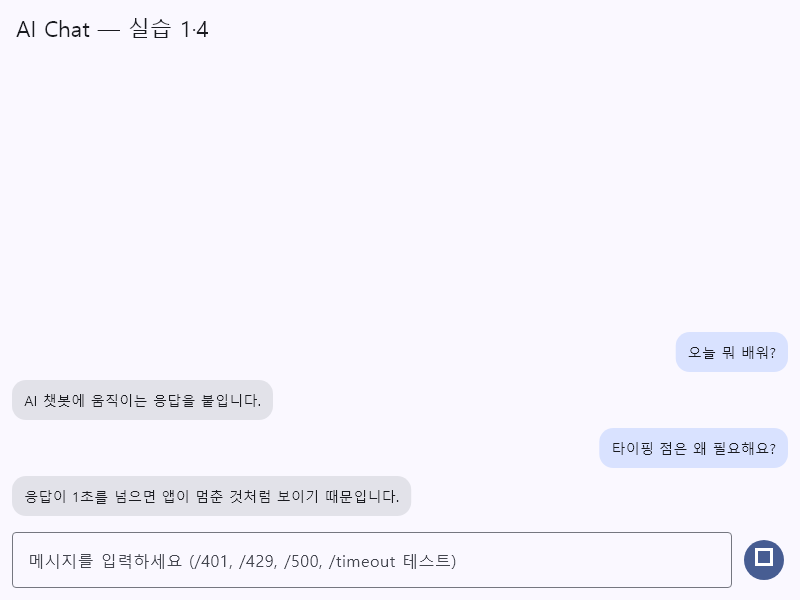
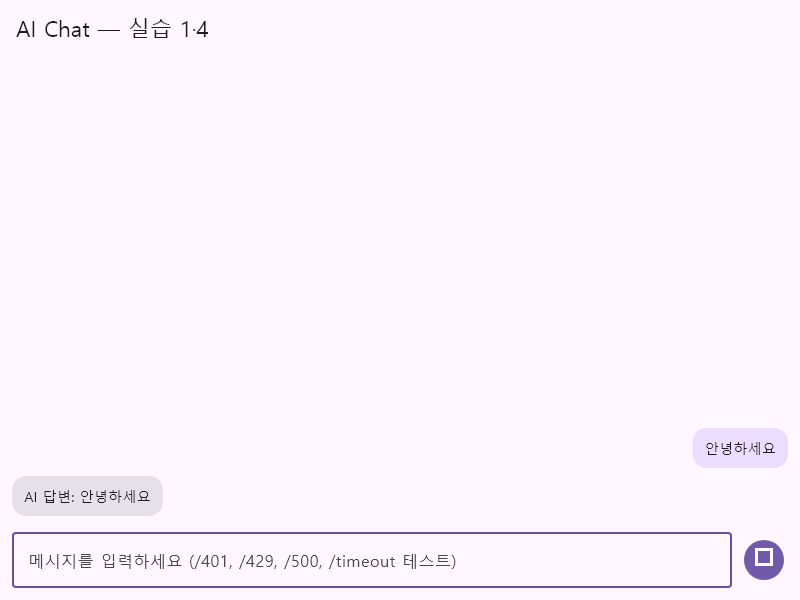
test: verify recovery timeout accessibility and update evidence

diff --git a/test/recovery_test.dart b/test/recovery_test.dart
@@ -1,0 +1,97 @@
+import 'dart:async';
+import 'package:flutter/material.dart';
+import 'package:flutter_test/flutter_test.dart';
+import 'package:http/http.dart' as http;
+import 'package:http/testing.dart';
+import 'package:lab1_chat_ui/main.dart';
+import 'package:lab1_chat_ui/proxy_client.dart';
+
+class RecoveringClient implements AiClient {
+  RecoveringClient(this.kind);
+  final ChatFailureKind kind;
+  final prompts = <String>[];
+  @override
+  Future<String> chat(String prompt) async {
+    prompts.add(prompt);
+    if (prompts.length == 1) throw ChatFailure(kind);
+    return '복구 성공';
+  }
+}
+
+void main() {
+  for (final kind in ChatFailureKind.values) {
+    testWidgets('$kind retry recovers without duplicating prompt', (
+      tester,
+    ) async {
+      final client = RecoveringClient(kind);
+      await tester.pumpWidget(MaterialApp(home: ChatPage(client: client)));
+      await tester.enterText(find.byType(TextField), '내 질문');
+      await tester.tap(find.byIcon(Icons.send));
+      await tester.pump();
+      await tester.pump(const Duration(milliseconds: 300));
+      expect(find.text('다시 시도'), findsOneWidget);
+      expect(tester.widget<TextField>(find.byType(TextField)).enabled, isTrue);
+      await tester.tap(find.text('다시 시도'));
+      await tester.pump();
+      if (kind == ChatFailureKind.rateLimited) {
+        await tester.pump(const Duration(milliseconds: 999));
+        expect(client.prompts.length, 1);
+        await tester.pump(const Duration(milliseconds: 1));
+      }
+      await tester.pump(const Duration(milliseconds: 300));
+      expect(find.text('복구 성공'), findsOneWidget);
+      expect(find.text('내 질문'), findsOneWidget);
+      expect(client.prompts, ['내 질문', '내 질문']);
+      await tester.pumpWidget(const SizedBox());
+    });
+  }
+  testWidgets('reduced motion and keyboard inset preserve input', (
+    tester,
+  ) async {
+    await tester.pumpWidget(
+      MaterialApp(
+        home: MediaQuery(
+          data: const MediaQueryData(
+            disableAnimations: true,
+            viewInsets: EdgeInsets.only(bottom: 250),
+          ),
+          child: ChatPage(client: const MockAiClient()),
+        ),
+      ),
+    );
+    await tester.enterText(find.byType(TextField), 'hello');
+    await tester.tap(find.byIcon(Icons.send));
+    await tester.pump();
+    expect(find.text('AI가 답변을 준비하고 있습니다…'), findsOneWidget);
+    expect(tester.widget<TextField>(find.byType(TextField)).enabled, isFalse);
+    await tester.pump(const Duration(milliseconds: 350));
+    await tester.pump();
+    expect(find.text('AI 답변: hello'), findsOneWidget);
+    expect(tester.takeException(), isNull);
+    await tester.pumpWidget(const SizedBox());
+  });
+  for (final status in [401, 429, 500]) {
+    test('proxy maps HTTP $status', () async {
+      final client = ProxyAiClient(
+        transport: MockClient((_) async => http.Response('{}', status)),
+      );
+      await expectLater(client.chat('hello'), throwsA(isA<ChatFailure>()));
+    });
+  }
+  test('proxy enforces actual response timeout', () async {
+    final client = ProxyAiClient(
+      timeout: const Duration(milliseconds: 1),
+      transport: MockClient((_) => Completer<http.Response>().future),
+    );
+    await expectLater(
+      client.chat('hello'),
+      throwsA(
+        isA<ChatFailure>().having(
+          (e) => e.kind,
+          'kind',
+          ChatFailureKind.timeout,
+        ),
+      ),
+    );
+  });
+}

diff --git a/test/widget_test.dart b/test/widget_test.dart
@@ -5,39 +5,42 @@ import 'package:lab1_chat_ui/main.dart';
 
 void main() {
   testWidgets('채팅 UI는 말풍선과 입력창을 보여 준다', (WidgetTester tester) async {
-    await tester.pumpWidget(const ChatLabApp());
+    await tester.pumpWidget(const MaterialApp(home: ChatPage()));
 
     // 제목
     expect(find.text('AI Chat — 실습 1·4'), findsOneWidget);
 
     // 대화 목록과 양쪽 말풍선
     expect(find.byType(AnimatedList), findsOneWidget);
-    expect(find.text('오늘 뭐 배워?'), findsOneWidget);
+    expect(find.text('무엇이든 물어보세요'), findsOneWidget);
     expect(find.byType(TextField), findsOneWidget);
     expect(find.byIcon(Icons.send), findsOneWidget);
   });
 
   testWidgets('입력한 메시지는 사용자 말풍선으로 추가된다', (WidgetTester tester) async {
-    await tester.pumpWidget(const ChatLabApp());
+    await tester.pumpWidget(const MaterialApp(home: ChatPage()));
     await tester.enterText(find.byType(TextField), '새 질문');
     await tester.tap(find.byIcon(Icons.send));
+    await tester.pump();
+    await tester.pump(const Duration(milliseconds: 300));
     await tester.pump(const Duration(milliseconds: 300));
 
     expect(find.text('새 질문'), findsOneWidget);
   });
 
   testWidgets('전송 중에는 타이핑 점이 보이고 AI 답변이 도착한다', (WidgetTester tester) async {
-    await tester.pumpWidget(const ChatLabApp());
+    await tester.pumpWidget(const MaterialApp(home: ChatPage()));
     await tester.enterText(find.byType(TextField), 'hello');
     await tester.tap(find.byIcon(Icons.send));
     await tester.pump(const Duration(milliseconds: 50));
     expect(find.byKey(const Key('typing-dots')), findsOneWidget);
     await tester.pump(const Duration(milliseconds: 700));
+    await tester.pump(const Duration(milliseconds: 300));
     expect(find.text('AI 답변: hello'), findsOneWidget);
   });
 
   testWidgets('401 오류는 말풍선에 남고 다시 시도 버튼이 보인다', (WidgetTester tester) async {
-    await tester.pumpWidget(const ChatLabApp());
+    await tester.pumpWidget(const MaterialApp(home: ChatPage()));
     await tester.enterText(find.byType(TextField), '/401');
     await tester.tap(find.byIcon(Icons.send));
     await tester.pump(const Duration(milliseconds: 700));

diff --git a/test/evidence_test.dart b/test/evidence_test.dart
@@ -6,11 +6,36 @@ import 'package:lab1_chat_ui/main.dart';
 
 void main() {
   testWidgets('capture implemented Flutter chat screen', (tester) async {
-    final loader = FontLoader('Roboto')..addFont(Future.value(ByteData.sublistView(File('C:/Windows/Fonts/malgun.ttf').readAsBytesSync())));
+    final loader = FontLoader('Roboto')
+      ..addFont(
+        Future.value(
+          ByteData.sublistView(
+            File('C:/Windows/Fonts/malgun.ttf').readAsBytesSync(),
+          ),
+        ),
+      );
     await loader.load();
-    await tester.pumpWidget(const RepaintBoundary(key: Key('evidence'), child: ChatLabApp()));
+    await tester.pumpWidget(
+      const RepaintBoundary(key: Key('evidence'), child: ChatLabApp()),
+    );
     await tester.pump(const Duration(seconds: 1));
-    await expectLater(find.byKey(const Key('evidence')), matchesGoldenFile('../docs/evidence/chat-ui.png'));
+    await tester.enterText(find.byType(TextField), '안녕하세요');
+    // Capture the empty state separately; do not require a running proxy.
+    await tester.pumpWidget(
+      const RepaintBoundary(
+        key: Key('evidence'),
+        child: MaterialApp(debugShowCheckedModeBanner: false, home: ChatPage()),
+      ),
+    );
+    await tester.pump();
+    await tester.enterText(find.byType(TextField), '안녕하세요');
+    await tester.tap(find.byIcon(Icons.send));
+    await tester.pump(const Duration(milliseconds: 400));
+    await tester.pump(const Duration(milliseconds: 400));
+    await expectLater(
+      find.byKey(const Key('evidence')),
+      matchesGoldenFile('../docs/evidence/chat-ui.png'),
+    );
     await tester.pumpWidget(const SizedBox());
   }, skip: !File('C:/Windows/Fonts/malgun.ttf').existsSync());
 }

diff --git a/README.md b/README.md
@@ -6,10 +6,18 @@
 
 ```bash
 flutter pub get
+node proxy/server.mjs
+# 새 터미널:
 flutter run -d chrome
 ```
 
-외부 API key 없이 실행됩니다. 테스트용 입력은 `/401`, `/429`, `/500`, `/timeout`, `/network`이며, 일반 문장은 mock AI가 응답합니다.
+외부 API key 없이 앱 → HTTP proxy → MOCK 응답으로 실행됩니다. `/401`, `/429`, `/500`, `/timeout`은 첫 요청에서 실패하고 같은 메시지를 다시 시도하면 성공합니다. `/timeout`은 실제로 30초 뒤 앱에서 timeout 처리됩니다. 서버 재시작으로 테스트 기록을 초기화합니다.
+
+Android 에뮬레이터: `flutter run --dart-define=CHAT_BASE=http://10.0.2.2:8787`
+
+서버 전체 오류 테스트 (PowerShell): `$env:FORCE_STATUS='429'; node proxy/server.mjs` (종료 후 환경변수 제거). `SLOW_MS`로 응답 지연을 설정할 수 있습니다. 실제 AI 연결 및 키는 이번 mock 실행에 필요하지 않습니다.
+
+앱은 빈 대화에서 시작합니다. 429 오류 후 수동 재시도는 첫 번째 1초, 그다음 2초 대기합니다. 운영체제 Reduce Motion 설정을 따릅니다.
 
 ## 구현 체크리스트
 

diff --git a/docs/w11.md b/docs/w11.md
@@ -15,3 +15,14 @@
 5. **증거**
    - 커밋 3개: UI → 상태·애니메이션 → 오류·기록.
    - 검증: `flutter analyze`, `flutter test`; 수동 확인 항목은 성공 응답, 401/429/500/timeout, retry, 키보드, Reduce Motion이다.
+
+## 제출 전 보완 및 검증
+
+- 빈 대화로 시작하며 빈 상태를 실제로 표시한다.
+- newest-first 목록과 `insertItem(0)`을 일치시켜 새 말풍선에 250ms 삽입 효과를 적용한다.
+- 앱 → HTTP proxy 구조를 사용한다. `node proxy/server.mjs`로 키 없이 실행한다.
+- proxy는 401/429/500/timeout을 처음 한 번 발생시키고 retry 시 성공하여 복구를 시연한다.
+- 429 재시도 대기는 오류 종류를 기준으로 1초 → 2초 적용한다.
+- Flutter 자동검증 15개 통과: 오류 5종 복구, 질문 중복 방지, 실제 응답 timeout, Reduce Motion, 키보드 inset 포함.
+- HTTP proxy 실통신 확인: 401/429/500 각각 첫 실패 → retry 200 통과.
+- 실제 Android 기기/에뮬레이터는 연결되지 않아 물리 키보드·OS 설정 조작은 미검증이다. 해당 동작은 Flutter 위젯 테스트로 확인했다.
